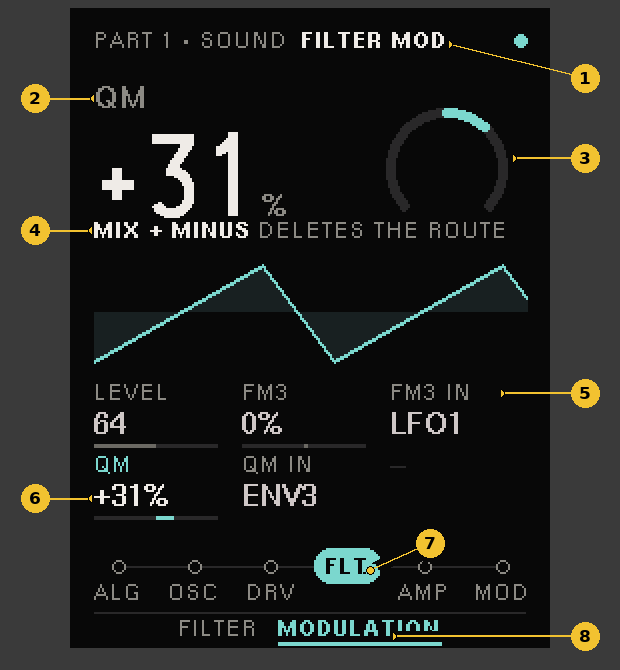
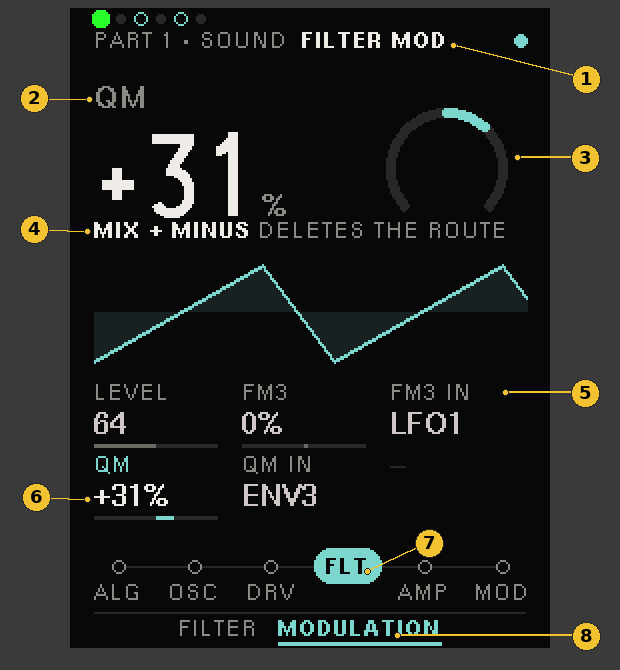
Docs for 0.2.0 as the instrument is: Part dots, FILTER page, VA modes, TEXT SIZE, FACTORY pages, install screen; no changelog wording; screens re-shot

diff --git a/QUICK-START.md b/QUICK-START.md
@@ -38,7 +38,8 @@ The screenshots are rendered by the firmware's own screen code. Your values will
              └ OP1 … OP6                         └ L1  L2  L3
 ```
 
-The sub-pages of a page sit in a row at the bottom of the screen. The diagram above shows them stacked, the old way. If you like the stacked list better, SETTINGS › PERSONALIZE › CHAIN MAP › PAGES: STACK. Then **EDIT** goes down a sub-page and **SEQ** goes back up.
+The sub-pages of a page sit in a row at the bottom of the screen, each named in a full word (ALGORITHM, PITCH, MATRIX, ENV1 …). The diagram above draws them stacked, with their short names. If you like a stacked list better, SETTINGS › PERSONALIZE › CHAIN MAP › PAGES: STACK. Then **EDIT** goes down a sub-page and **SEQ** goes back up.
+<!-- 0.2.0 final pass: FX in the filter (#614) takes DRV out of the chain (ALG · OSC · FLT · AMP · MOD) and gives FLT an FX sub-page; redraw this diagram once it is merged. -->
 
 ## 3. Key combos
 
@@ -59,23 +60,32 @@ The sub-pages of a page sit in a row at the bottom of the screen. The diagram ab
 
 ![A Part page, annotated](docs/img/part-page.png)
 
-1. **Part and place.** `PART 1 · SOUND` is Part 1's sound pages; `PART 1 · MIX` is its mixer. If the Part plays out of output pair 2 or 3, an `OUT P2` or `OUT P3` warning shows on the right of this line.
-2. **Page name.** The page you are on (ALGORITHM).
-3. **Sounding dot.** Lit while the instrument is making sound. A second dot to its left pulses ORBIT's beat while it runs.
+1. **Part dots.** One dot a Part, B1 to B6. The current Part is the bright green dot; a Part that is playing has a ring round its dot.
+2. **Part and place.** `PART 1 · SOUND` is Part 1's sound pages; `PART 1 · MIX` is its mixer. If the Part plays out of output pair 2 or 3, an `OUT P2` or `OUT P3` warning shows on the right of this line.
+3. **Page name.** The page you are on (ALGORITHM).
+4. **Sounding dot.** Lit while the instrument is making sound. A second dot to its left pulses ORBIT's beat while it runs.
+5. **Focus band: label.** The parameter you last touched or turned.
+6. **Focus band: value**, large. A unit (Hz, kHz, ms, %) is set small after the number, so `2.14 kHz` never runs under the gauge. The number is the value you set: it shows as soon as you turn, and modulation never moves it.
+7. **Focus band: glyph.** A picture of the value. It depends on the parameter: an arc for most knobs (filled from 12 o'clock when the value is bipolar), a crossfader for blends (MORPH, DRV MIX), a level bar for levels and sends, a switch for on/off, a wave scope for a wave choice and for VA's MODE (the two oscillators combined), a staff note for TRANSPOSE, and animated pictures for the effects (the chorus braid, the delay rings, the reverb cube). Word choices (MODEL, the filter's MODE, STEAL) have no glyph: the word takes the band.
+<!-- 0.2.0 final pass: add the glyphs that land, each once merged: TAPE's machine pictures (#476), the STABILITY spirit level (#593), FX PLACE (#614), the LFO page's own scope (#649). -->
+8. **The page's picture.** Here the algorithm diagram. While you pick ALG A or ALG B, the picture shows that one algorithm on its own; on any other cell it shows A blending into B. Pages without their own picture show the live output's waveform.
+9. **The focused cell.** Its label turns to the accent colour.
+10. **The bar** under a cell shows where the value sits in its range; accent on the focused cell. Stepped values (ALG A, PITCH, CRSE) have no bar. A thin line under the bar shows modulation reaching that parameter.
+11. **A cell.** Six per page, in encoder order. A dash means the slot is empty; a dimmed cell does nothing in the current setting.
+12. **Chain map: where you are.** The current page is the filled pill.
+13. **Chain map: the other pages** of the chain, MINUS / PLUS away.
+14. **Sub-pages** sit in a row under the map. The current one is underlined. `<` and `>` at the ends mean there are more.
 
-<!-- 0.2.0 final pass: re-shoot part-page.png once #625 (Part dots) is merged. The header then carries six dots: the current Part a bright green dot, Parts that are playing a ring. Reword this item to name the dots, and renumber. -->
-4. **Focus band: label.** The parameter you last touched or turned.
-5. **Focus band: value**, large. A unit (Hz, kHz, ms, %) is set small after the number, so `2.14 kHz` never runs under the gauge. A set value shows at once; it doesn't count up after you stop turning.
-6. **Focus band: glyph.** A picture of the value. It depends on the parameter: an arc for most knobs (filled from 12 o'clock when the value is bipolar), a crossfader for blends (MORPH, DRV MIX), a level bar for levels and sends, a switch for on/off, a wave scope for a wave choice, a staff note for TRANSPOSE, and animated pictures for the effects (the chorus braid, the delay rings, the reverb cube). Word choices (MODEL, MODE, STEAL) have no glyph: the word takes the band.
-7. **The page's picture.** Here the algorithm diagram. While you pick ALG A or ALG B, the picture shows that one algorithm on its own; on any other cell it shows A blending into B. Pages without their own picture show the live output's waveform.
-8. **The focused cell.** Its label turns to the accent colour.
-9. **The bar** under a cell shows where the value sits in its range; accent on the focused cell. Stepped values (ALG A, PITCH, CRSE) have no bar. A thin line under the bar shows modulation reaching that parameter.
-10. **A cell.** Six per page, in encoder order. A dash means the slot is empty; a dimmed cell does nothing in the current setting.
-11. **Chain map: where you are.** The current page is the filled pill.
-12. **Chain map: the other pages** of the chain, MINUS / PLUS away.
-13. **Sub-pages** sit in a row under the map. The current one is underlined. `<` and `>` at the ends mean there are more.
+Some pages (FILTER, MASTER, the envelopes and LFO speeds, ORBIT's ORB) give the whole band to a picture and have no focus band.
 
-Some pages (FILTER, MASTER, the envelopes and LFO speeds, ORBIT's ORB) give the whole band to a picture and have no focus band. On FILTER the picture is drawn from the filter's real response, and the CUTOFF number is the value you set. Modulation shows as a faint mark beside it. <!-- 0.2.0 final pass: re-shoot a FILTER shot and add it here once #624 and #626 are merged. -->
+![The FILTER page, annotated](docs/img/filter.png)
+
+1. **The response**, drawn from the filter's real response at the values you set, resonance peak included.
+2. **The corner**, at the cutoff you set.
+3. **The cutoff readout** (FREQ, or CUTOFF on the 2040): the value you set. It stays still while an LFO or envelope moves the sound.
+4. **The modulation mark.** A faint band under the plot runs from the corner to where modulation has the cutoff now, with a tick at its end. It is gone when nothing modulates the cutoff.
+
+<!-- 0.2.0 final pass: FX in the filter (#614) changes FLT's front page (KIND · MODE · FX · PLACE · FREQ · Q): re-shoot filter.png and part-page.png (no DRV on the map) once it is merged. -->
 
 ## 5. Sub-pages and hints
 
@@ -128,11 +138,11 @@ EDIT + B*n*, or EDIT from the mixer. MINUS / PLUS switch Part; SEQ goes back up 
 
 ![The Sound browser, annotated](docs/img/sound-browser.png)
 
-1. **Tabs.** PROJECT lists the project's own Sounds; LIBRARY lists Sounds saved on the card; FACTORY lists the factory Sounds from the card.
+1. **Tabs.** PROJECT lists the project's own Sounds; LIBRARY lists Sounds saved on the card; FACTORY lists the factory Sounds from the card. A long list comes in pages of 48: `NEXT ›` at the bottom turns to the next page, `‹ PREVIOUS` at the top goes back (LIBRARY says `OLDER ›` and `‹ NEWER`). The 88 factory Sounds fill two pages.
 2. Turn **encoder 2** to switch tab.
 3. The Part you are loading into.
 4. **INIT rows:** a clean Sound per engine, above the project's Sounds.
-5. TAPE and DRUM read COMING SOON and don't load yet.
+5. TAPE and DRUM read COMING SOON and don't load yet. <!-- 0.2.0 final pass: TAPE (#476) loads once merged; re-shoot sound-browser.png then. -->
 6. The slot number. Turn **encoder 1** to move.
 7. The selected row.
 8. What the Sound costs in the project's Sound memory.
@@ -146,7 +156,7 @@ The MOD node's own page (MTX). Its sub-pages are the three envelopes (E1–E3), 
 
 ![The MOD matrix, annotated](docs/img/mod-matrix.png)
 
-1. **Columns** are destinations you have primed: on any page, touch a parameter and press MIX + PLUS. Encoder 4 scrolls them sideways.
+1. **Columns.** The first four (FLT FREQ, FLT Q, OUT VCA, FX) are always there; after them come the destinations you have primed: on any page, touch a parameter and press MIX + PLUS. Encoder 4 scrolls them sideways. <!-- 0.2.0 final pass: say what the FX column moves (the filter's FX slot, P1) once #614's UI is merged. -->
 2. **Rows** are the sources: ENV1–3, LFO1–3, VELO, NOTE (and OP5, OP6 for ALGO's operator taps).
 3. **A route**, with its amount.
 4. **The cursor.** Encoder 1 moves it up and down, encoder 2 across; encoder 5 sets the amount.
@@ -168,7 +178,7 @@ MENU opens it. EDIT opens a row (or runs it), SEQ or MENU goes back. MINUS / PLU
 5. The loaded project's name, then its state (`SAVED`, `* MODIFIED`).
 6. What the keys do here.
 
-The top list: PROJECT, PART, ORBIT, MIDI CONFIG, SYSEX DUMP (later), AUDIO ROUTING, PERSONALIZE, SYSTEM. PERSONALIZE holds THEME, SCREENSAVER (OFF, or 5 seconds up to 10 minutes; 5 minutes is the default) and CHAIN MAP (PAGES: ROW or STACK).
+The top list: PROJECT, PART, ORBIT, MIDI CONFIG, SYSEX DUMP (later), AUDIO ROUTING, PERSONALIZE, SYSTEM. PERSONALIZE holds THEME, SCREENSAVER (OFF, or 5 seconds up to 10 minutes; 5 minutes is the default), CHAIN MAP (PAGES: ROW or STACK) and TEXT SIZE (SIZE: NORMAL or LARGE; LARGE sets the cells, the focus label, the hints, the SETTINGS lists and the Sound names a size up).
 
 ## 11. ORBIT, the ring sequencer
 
@@ -211,6 +221,6 @@ ORBIT follows its own clock, or a MIDI clock from your DAW: SETTINGS › MIDI CO
 3. Press **PLUS** a few times to walk the chain, then **SEQ** to step into a sub-page and **EDIT** to come back.
 4. Press **B1** again for its mixer. It opens on SND, the sends: turn REVERB to send Part 1 to the reverb. MINUS goes to PRT for LEVEL and PAN.
 5. Press **EDIT** to reach the Sound browser. Turn encoder 1 up to INIT VA and press **EDIT**: Part 1 is now a VA. Press **B1** to see its pages.
-6. PLUS to FLT, turn FREQ a touch, then press **MIX + PLUS** to prime it. PLUS to MOD: on the matrix, move the cursor to the LFO1 row under that column (encoders 1 and 2) and turn encoder 5.
-7. **Hold MENU** to save the project. Give it a name (encoder 1 moves the cursor, 2 picks a letter) and press **SEQ**.
+6. PLUS along to MOD. On the matrix, move the cursor to the LFO1 row under the FLT FREQ column (encoders 1 and 2) and turn encoder 5. MINUS back to FLT: the faint band under the picture shows the LFO moving the cutoff. To modulate any other parameter, touch it and press **MIX + PLUS** to give it a column first.
+7. **Hold MENU** to save the project. Give it a name (encoder 1 moves the cursor, 2 picks a letter) and press **EDIT**.
 8. ORBIT: **hold SEQ**, then press **B6**.

diff --git a/FAQ.md b/FAQ.md
@@ -22,7 +22,7 @@ SETTINGS › PART › SAVE TO LIBRARY, or **MIX + EDIT** on the browser's LIBRAR
 In the browser's PROJECT tab, select it and press **MIX + MINUS**. It asks before clearing.
 
 **Where are the factory Sounds?**
-Unzip `factory-v1.zip` from the releases page and copy its **CHIMERA** folder onto the card (hold MENU at power-on, then button 3; choose Replace or Merge if asked). Then **EDIT + B1** and turn **encoder 2** to the FACTORY tab. Every new project starts with the factory Sounds in its PROJECT tab: TX BASS, TX EPIANO, TX BRASS, TX BELL, SAW LEAD, SQR BASS, MORPH PAD, MORPH KEYS, and the formant Sounds CHOIR, TALK BASS, BREATH and VOX. Parts 1 to 5 start on some of them. To get them back, start a new project: SETTINGS › PROJECT › LOAD PROJECT › + CREATE NEW.
+Unzip `factory-v1.zip` from the releases page and copy its **CHIMERA** folder onto the card (hold MENU at power-on, then button 3; choose Replace or Merge if asked). Then **EDIT + B1** and turn **encoder 2** to the FACTORY tab. Its 88 Sounds fill two pages: turn encoder 1 down to `NEXT ›` and press **EDIT** for the second, and `‹ PREVIOUS` at its top goes back. Every new project starts with the factory Sounds in its PROJECT tab: TX BASS, TX EPIANO, TX BRASS, TX BELL, SAW LEAD, SQR BASS, MORPH PAD, MORPH KEYS, and the formant Sounds CHOIR, TALK BASS, BREATH and VOX. Parts 1 to 5 start on some of them. To get them back, start a new project: SETTINGS › PROJECT › LOAD PROJECT › + CREATE NEW.
 
 **How do I add Sounds from my computer?**
 Use SD card access (hold MENU at power-on, then button 3) and copy the Sound files into the card's `CHIMERA/SOUNDS` folder. They show up on the LIBRARY tab.
@@ -76,16 +76,36 @@ Load a Sound with another engine: the INIT row of that engine is a clean start. 
 |---|---|---|
 | ALGO | Six-operator phase modulation (FM). Two algorithms, ALG A and ALG B, with MORPH blending between them | ALG · OSC · DRV · FLT · AMP · MOD |
 | MODAL | Physical models: struck, plucked and bowed resonators. MODEL picks STRING, BANK, BOWED or SYMP (sympathetic strings) | EXC · RES · FLT · AMP · MOD |
-| VA | Two variable-wave oscillators combined by MODE (MIX, SYNC, RING, XOR, BITS), with a SUB and STABILITY drift | VA · DRV · FLT · AMP · MOD |
+| VA | Two variable-wave oscillators combined by MODE, with a SUB and STABILITY drift | VA · DRV · FLT · AMP · MOD |
 
-<!-- 0.2.0 final pass: new VA modes (#601-605, #613) and the STABILITY glyph (#593): add them to the VA row and describe them once merged. -->
+<!-- 0.2.0 final pass: FX in the filter (#614) takes DRV out of these chains once merged. -->
+
+**What do VA's MODEs do?**
+MODE picks how OSC 1 and OSC 2 combine, and BLEND sets how far. The words at BLEND's two ends say what you get, and MODE's glyph draws the result.
+
+| MODE | What it does | BLEND from … to … |
+|---|---|---|
+| MIX | The two oscillators mixed | 1 · 2 |
+| SYNC | OSC 2 restarts at each of OSC 1's cycles (hard sync) | 1 · 2 |
+| SOFT | Soft sync: OSC 2 turns round at each of OSC 1's cycles instead of restarting. Softer than SYNC with sine and triangle waves, and an octave down | 1 · 2 |
+| RING | Ring modulation: the two multiplied | MIX · RING |
+| AM | OSC 2 swells and dips OSC 1's level; at audio rates it adds sidebands and keeps OSC 1's note | CLEAN · AM |
+| FM | OSC 2 bends OSC 1's speed, deep enough to run it backwards (through-zero FM). You hear OSC 1; OSC 2 is the modulator | CLEAN · DEEP |
+| LOOPFM | Each oscillator modulates itself; BLEND also brings OSC 2 in. WAVE sets how much each one loops | 1 · LOOP |
+| MAX | The larger of the two waves, sample by sample | MIX · MAX |
+| XOR | The two waves' samples combined bit by bit (exclusive or): harsh and digital | MIX · XOR |
+| BITS | The mix crushed from 16 bits down to 2 | CLEAN · CRUSH |
+
+FM, LOOPFM and SOFT play from `CHIMERA.BK2`: without it they are silent and read NEEDS UPDATE.
+
+<!-- 0.2.0 final pass: AM's top third runs on into RING once #682 is merged (BLEND's right end then reads RING); add PHASE (#602) once merged; add the STABILITY glyph (#593) once merged. Re-check LOOPFM's line against #683. -->
 
 **Why do TAPE and DRUM say COMING SOON?**
 <!-- 0.2.0 final pass: TAPE is the headline of 0.2.0. When #476 is merged, replace this entry with how TAPE works (its machines and where its samples live) and keep COMING SOON for DRUM only. -->
-They aren't in this release. TAPE, the sample engine, is being reworked and DRUM is still to come. Their rows are in the browser so you know they're on the way; EDIT on them only shows COMING SOON.
+They aren't in this release. EDIT on their rows only shows COMING SOON.
 
 **What filter types are there?**
-On the FLT page, TYPE: CLEAN, 2040, DIRTY, LADDER. The cells change with the type. The picture shows the filter's real response.
+On the FLT page, TYPE: CLEAN, 2040, DIRTY, LADDER. The cells change with the type. The picture is drawn from the filter's real response. See the [quick start](QUICK-START.md#4-the-screen) for a tour of the FILTER page.
 
 <!-- 0.2.0 final pass: FX in the filter (#614): add how to use it here. -->
 
@@ -104,7 +124,7 @@ On the engine's PIT sub-page (SEQ from ALG, RES or VA): set STEAL to GLIDE and T
 BEND on the mixer's PART page, in semitones (2 by default).
 
 **Which MIDI messages work?**
-Notes, pitch bend, the sustain pedal (CC 64) and other CCs, on the DIN input. Each Sound carries a MIDI map of up to 16 CCs, per Part: SETTINGS › PART › MIDI MAP. To learn a CC, touch a cell, hold **MIX** and press **SEQ**, then move the knob on your controller. USB carries the console only, not notes.
+Notes, pitch bend, the sustain pedal (CC 64) and other CCs, on the DIN input. Each Sound carries a MIDI map of up to 16 CCs, per Part: SETTINGS › PART › MIDI MAP. To learn a CC, touch a cell, hold **MIX** and press **SEQ**, then move the knob on your controller. USB doesn't carry MIDI.
 
 **I hear nothing from a Part.**
 Check its CH matches your keyboard, its LEVEL is up, and its OUT. A Part sent to output pair P2 or P3 is silent on the main pair: the header then shows `OUT P2` or `OUT P3`.
@@ -137,7 +157,7 @@ SETTINGS › PERSONALIZE › THEME › INVERT: ON. The same page has BRIGHT, GAM
 **Can I change the screensaver?**
 SETTINGS › PERSONALIZE › SCREENSAVER: OFF, or from 5 seconds up to 10 minutes. The default is 5 minutes. A button that wakes the screen also does its job. A turn that wakes it loses its first notch, so you never change a value you couldn't see.
 
-**Can I get the old vertical list of sub-pages back?**
+**Can I have the sub-pages as a vertical list?**
 SETTINGS › PERSONALIZE › CHAIN MAP › PAGES: STACK. With STACK, **EDIT** goes down a sub-page and **SEQ** goes back up. With ROW (the default), the sub-pages sit in a row: **EDIT** goes back one and **SEQ** goes on one.
 
 **What do EDIT and MENU do in a dialog?**
@@ -146,8 +166,11 @@ SETTINGS › PERSONALIZE › CHAIN MAP › PAGES: STACK. With STACK, **EDIT** go
 **Why is a WAVE or ALG choice dimmed?**
 The formant budget can't pay for it. The focus band says why, for example `OP 1 MODULATED · OVER BUDGET` or `BUDGET FULL · OTHER FORMANTS`. Nothing is changed until you land on a choice that isn't dimmed.
 
-**The CUTOFF number doesn't move when an LFO moves the sound.**
-That's on purpose. The number is the value you set. Modulation is a faint mark beside it.
+**The FREQ number doesn't move when an LFO moves the sound.**
+That's on purpose. Every number shows the value you set (FREQ, or CUTOFF on the 2040, included). On the FILTER page, modulation is a faint band under the picture, from the cutoff you set to where it is now.
+
+**Can I make the text bigger?**
+SETTINGS › PERSONALIZE › TEXT SIZE › SIZE: LARGE. The cell labels and values, the focus label, the hints, the SETTINGS lists and the Sound names go up a size where they fit. The header, the chain map, the big value and the pictures stay as they are.
 
 **What does `MIX + B1-6 PART` mean in the mixer?**
 Hold MIX and press B1 to B6 to jump to that Part's mixer. You stay on the same page.
@@ -172,14 +195,11 @@ On a Mac, copying `CHIMERA.BIN` also leaves a hidden twin called `._CHIMERA.BIN`
 **My browser saved `CHIMERA (1).BIN`.**
 That's a second download of the same file. Rename it back to `CHIMERA.BIN` in Finder or Explorer (and `CHIMERA (1).BK2` to `CHIMERA.BK2`). Rename, don't delete. When you copy it to the card, choose Replace.
 
-**TAPE or the reverb is silent and says UPDATE.**
-`CHIMERA.BK2` isn't installed. Copy it to the top of the card (hold MENU at power-on, then button 3), eject, and restart. The screen says DON'T POWER OFF while it installs.
+**The reverb, or VA's FM, LOOPFM or SOFT, is silent and says UPDATE.**
+`CHIMERA.BK2` isn't installed.<!-- 0.2.0 final pass: add TAPE here once #476 is merged. --> Copy it to the top of the card (hold MENU at power-on, then button 3), eject, and restart. The screen says DON'T POWER OFF while it installs.
 
 **How do I report a bug?**
 Check [KNOWN-ISSUES.md](KNOWN-ISSUES.md) first. Then **Issues › New issue › Bug report**, with the version, what you did and what you heard or saw. A photo, screenshot or short recording helps a lot. See [reporting bugs](README.md#reporting-bugs).
-
-**The console tool can't find the unit.**
-After a cold power-on the USB console may not come up; a pass through SETTINGS › SYSTEM › OS UPGRADE brings it back. It's a [known issue](KNOWN-ISSUES.md).
 
 **I hear a hum when the unit is powered over USB.**
 That's a ground loop with your computer, not a bug. Use the 9 V supply. See [KNOWN-ISSUES.md](KNOWN-ISSUES.md).

diff --git a/README.md b/README.md
@@ -75,7 +75,7 @@ You don't have to remove the SD card from your PreenFM3.
 7. Press **MENU** on the PreenFM3 to leave SD card access.
 8. Under **Firmware to flash**, press **−** and **+** to step through the files on the card until it shows `CHIMERA.BIN`.
 9. Press **button 1 (flash)**.
-10. When Chimera starts, it finds `CHIMERA.BK2` on the card and installs it. The screen says **DON'T POWER OFF**. Wait until it is done.
+10. When Chimera starts, it finds `CHIMERA.BK2` on the card and installs it. The screen says **DON'T POWER OFF** and **INSTALLING**, and steps through ERASING, WRITING and SEALING. Wait until Chimera starts by itself.
 
 > **Make sure you've picked `CHIMERA.BIN` before you press button 1.** The bootloader shows every `.bin` on the card, one at a time, and the Chimera file may not be the first. Step through them all with − / + and check the name. This applies on every computer: Mac, Windows and Linux.
 
@@ -83,7 +83,8 @@ You don't have to remove the SD card from your PreenFM3.
 
 **Black screen after flashing?** The bootloader is never touched, so hold MENU while powering on and flash again with the right file.
 
-**If you skip `CHIMERA.BK2`**, Chimera still starts, but TAPE and the reverbs make no sound, and their screens say **UPDATE** or **NEEDS UPDATE**. Copy the file to the card as in step 5 and restart.
+**If you skip `CHIMERA.BK2`**, Chimera still starts, but the reverbs and VA's FM, LOOPFM and SOFT modes make no sound, and their screens say **UPDATE** or **NEEDS UPDATE**. Copy the file to the card as in step 5 and restart.
+<!-- 0.2.0 final pass: TAPE (#476) also plays from CHIMERA.BK2: add it to this list once it is merged. -->
 
 The PreenFM3 will install Chimera and start up.
 
@@ -148,7 +149,7 @@ Your PreenFM3 should restart into Chimera.
 
 ### Windows
 
-On Windows, please use the [SD card method](#step-3-install-using-your-sd-card-recommended) for now. USB steps for Windows are coming.
+On Windows, please use the [SD card method](#step-3-install-using-your-sd-card-recommended).
 
 ### Linux
 
@@ -188,9 +189,7 @@ We recommend starting here:
 
 **[FAQ](FAQ.md)** answers common questions.
 
-You can also download `factory-v1.zip` from the releases page. It includes 56 sounds and four demo projects to get you started.
-
-**Coming from 0.1.0?** The screen has changed a little: see [what's new in 0.2.0](#whats-new-in-020) below.
+You can also download `factory-v1.zip` from the releases page. It includes 88 sounds and four demo projects to get you started.
 
 ---
 
@@ -281,35 +280,21 @@ If possible, include a photo, screenshot, or short recording.
 
 ---
 
-## What's new in 0.2.0
+## What's inside
 
-**Easier to read**
+- **Six Parts**, each its own instrument on its own MIDI channel, with a mixer, three shared effects (chorus, delay, reverb) and a master compressor.
+- **ALGO**, a six-operator phase-modulation synth: two algorithms, ALG A and ALG B, with MORPH blending between them.
+- **MODAL**, struck, plucked and bowed resonators: STRING, BANK, BOWED and SYMP.
+- **VA**, two variable-wave oscillators combined by MODE: MIX, SYNC, RING, XOR, BITS, FM, AM, MAX, LOOPFM and SOFT (soft sync), with a SUB and STABILITY drift.
+- **ORBIT**, a ring sequencer that plays Chimera by itself: a chord progression round five rhythm rings.
+- **88 factory Sounds** in `factory-v1.zip`, and four demo projects.
+<!-- 0.2.0 final pass: add, each only once merged: TAPE (#476, #651), FX in the filter (#614), VA's PHASE mode (#602), the STABILITY glyph (#593), the chain map's engine track (#592), the LFO page's scope (#649). Describe them as they are, not as changes. -->
 
-- The chain map at the bottom shows a page's sub-pages as one row. **EDIT** steps to the previous sub-page and **SEQ** to the next. Prefer the old vertical list? SETTINGS › PERSONALIZE › CHAIN MAP › PAGES: STACK.
-- Values in the focus band are a big number with a small unit (`2.14` and `kHz`), and the gauge never covers them.
-- The header shows six dots, one per Part. The current Part is a bright green dot; Parts that are playing get a ring around theirs.
-- The CUTOFF number shows the value you set. Modulation is a faint mark beside it, so the number stays still while an LFO moves the sound.
-- The filter picture is drawn from the filter's real response.
-- Picking ALG A or ALG B shows that algorithm's diagram on its own.
-- A choice the formant budget refuses is dimmed, with the reason underneath.
+## Not in this release
 
-**Easier to use**
-
-- Dialogs: **EDIT** confirms, **MENU** or **SEQ** cancels. Any encoder moves the highlight. The hint reads `EDIT OK · MENU BACK`.
-- In every list, any encoder moves the bar.
-- The mixer hints `MIX + B1-6 PART`: that jumps to another Part's mixer.
-- The screensaver waits up to 10 minutes (the default is now 5). A button that wakes the screen also acts; a turn that wakes it loses its first notch.
-- The firmware files are now `CHIMERA.BIN` and `CHIMERA.BK2`.
-
-<!-- 0.2.0 final pass: list the headline features here, each only once its PR has merged: TAPE (#476), FX in the filter (#614), new VA modes (#601-605, #613), the STABILITY glyph (#593), and the chain-map engine track (#592). Do not describe any of them as shipped before then. -->
-
-## What's coming next?
-
-We're working on additional synthesis engines, including TAPE (sample playback) and DRUM.
+TAPE (sample playback) and DRUM are marked COMING SOON in the Sound browser. They aren't in this release.
 
 <!-- 0.2.0 final pass: if TAPE ships in 0.2.0, take it out of this section and out of the COMING SOON wording in the other docs. -->
-
-These aren't available in the current alpha, but you'll see them marked as COMING SOON in the Sound browser.
 
 Watch this repository for new releases.
 

diff --git a/GETTING-STARTED.md b/GETTING-STARTED.md
@@ -2,16 +2,15 @@
 
 A short tour for alpha testers. To install (or go back to stock), follow the [README](README.md); this guide starts once Chimera boots. The [quick start](QUICK-START.md) explains the screen and the controls with annotated screenshots; the [FAQ](FAQ.md) answers "how do I…".
 
-You will need a MIDI keyboard or sequencer on the **DIN MIDI input**. USB is the console only; it does not carry notes yet.
+You will need a MIDI keyboard or sequencer on the **DIN MIDI input**. USB doesn't carry MIDI.
 
 ## First five minutes
 
 1. Power on. The boot splash shows the firmware version; note it, you will want it for bug reports. (It's also at SETTINGS › SYSTEM › ABOUT.)
 2. Press **B1**. That is Part 1. There are six Parts (B1 to B6), each a separate instrument. The six dots at the top of the screen are the Parts: the current one is a bright green dot, and a Part that is playing gets a ring.
-<!-- 0.2.0 final pass: Part dots land with #625. Keep or cut this sentence to match what merged. -->
 3. Play Part 1 from your keyboard. Out of the box, Part *n* listens on MIDI channel *n*, is POLY, and plays out of output pair P1.
 4. Turn the six encoders under the screen. Each one drives the cell above it.
-5. Choose what a Part is: hold **EDIT** and press **B1** to open the Sound browser. The top rows are INIT sounds, one per engine (ALGO, MODAL, VA), then TAPE and DRUM, which say COMING SOON and don't load yet, above the pool's Sounds; each row names its engine. The list opens on Sound 1, so turn encoder 1 up for INIT, to the one you want, and press **EDIT** to load it.
+5. Choose what a Part is: hold **EDIT** and press **B1** to open the Sound browser. The top rows are INIT sounds, one per engine (ALGO, MODAL, VA), then TAPE and DRUM, which say COMING SOON and don't load yet, above the project's Sounds; each row names its engine. The list opens on Sound 1, so turn encoder 1 up for INIT, to the one you want, and press **EDIT** to load it. Turn encoder 2 for the LIBRARY and FACTORY tabs.
 
 ## Getting around
 
@@ -25,13 +24,13 @@ Each Part runs one engine. Load a Sound with another engine and the Part's pages
 |---|---|---|
 | ALGO | six-operator phase-modulation synth | ALG, OSC (and its per-operator sub-pages), DRV, FLT, AMP, MOD |
 | MODAL | struck, plucked and bowed resonators | EXC (exciter), RES (models STRING, BANK, BOWED, SYMP), FLT, AMP, MOD |
-| VA | two variable-wave oscillators combined by MODE (MIX, SYNC, RING, XOR, BITS), with a SUB and STABILITY drift | VA (and its OSC 1 / OSC 2 sub-pages), DRV, FLT, AMP, MOD |
+| VA | two variable-wave oscillators combined by MODE (MIX, SYNC, RING, XOR, BITS, FM, AM, MAX, LOOPFM, SOFT), with a SUB and STABILITY drift | VA (and its OSC 1 / OSC 2 sub-pages), DRV, FLT, AMP, MOD |
 
 TAPE (sample playback from the card) and DRUM aren't in this release.
 
 Filters, modulation and the effects are in the [FAQ](FAQ.md#modulation).
 
-<!-- 0.2.0 final pass: TAPE (#476) is the headline: add its row to the engines table and take it out of "Not working yet" once merged. Also add the new VA modes (#601-605, #613), FX in the filter (#614), the STABILITY glyph (#593) and the chain-map engine track (#592), each only once merged. -->
+<!-- 0.2.0 final pass: TAPE (#476) is the headline: add its row to the engines table and take it out of "Not working yet" once merged. Also, each only once merged: VA's PHASE mode (#602), FX in the filter (#614: DRV leaves every chain, FLT gains FX), the STABILITY glyph (#593) and the chain-map engine track (#592). -->
 
 ## How do I...
 

diff --git a/KNOWN-ISSUES.md b/KNOWN-ISSUES.md
@@ -6,7 +6,8 @@ Check here before filing. Known and being worked on.
 - Under the heaviest possible load (every voice of every Part playing, all effects on), a big chord landing at once can cause a single tiny click
 - PreenFM3s with the newer "1.6 - 100" main board are detected, and their knobs and buttons should work, but this hasn't been tried on that board yet. If yours is one, please tell us how it goes (SETTINGS › SYSTEM › ABOUT shows the board next to the chip revision)
 - Push encoders (SETTINGS › SYSTEM › PUSH ENCODERS): push to jump a value to its default, push and turn for fine steps. Untested on push-encoder hardware so far; reports welcome
-<!-- 0.2.0 final pass: add here only once #624 is merged: the filter picture for the NOTCH2 type is still a sketch, not the real response (#631). Also re-check every item above against 0.2.0, and add any known issue of TAPE (#476), FX in the filter (#614) and the new VA modes (#601-605, #613). -->
+- On the FILTER page, the picture for CLEAN's NOTCH2 mode is a sketch of the response, not the filter's real response
+<!-- 0.2.0 final pass: drop the NOTCH2 line if #631 is fixed before release. Re-check every item above against 0.2.0, and add any known issue of TAPE (#476), FX in the filter (#614) and VA's modes (#602, #682, #683). -->
 
 ## Not a bug: hum when powered over USB
 
